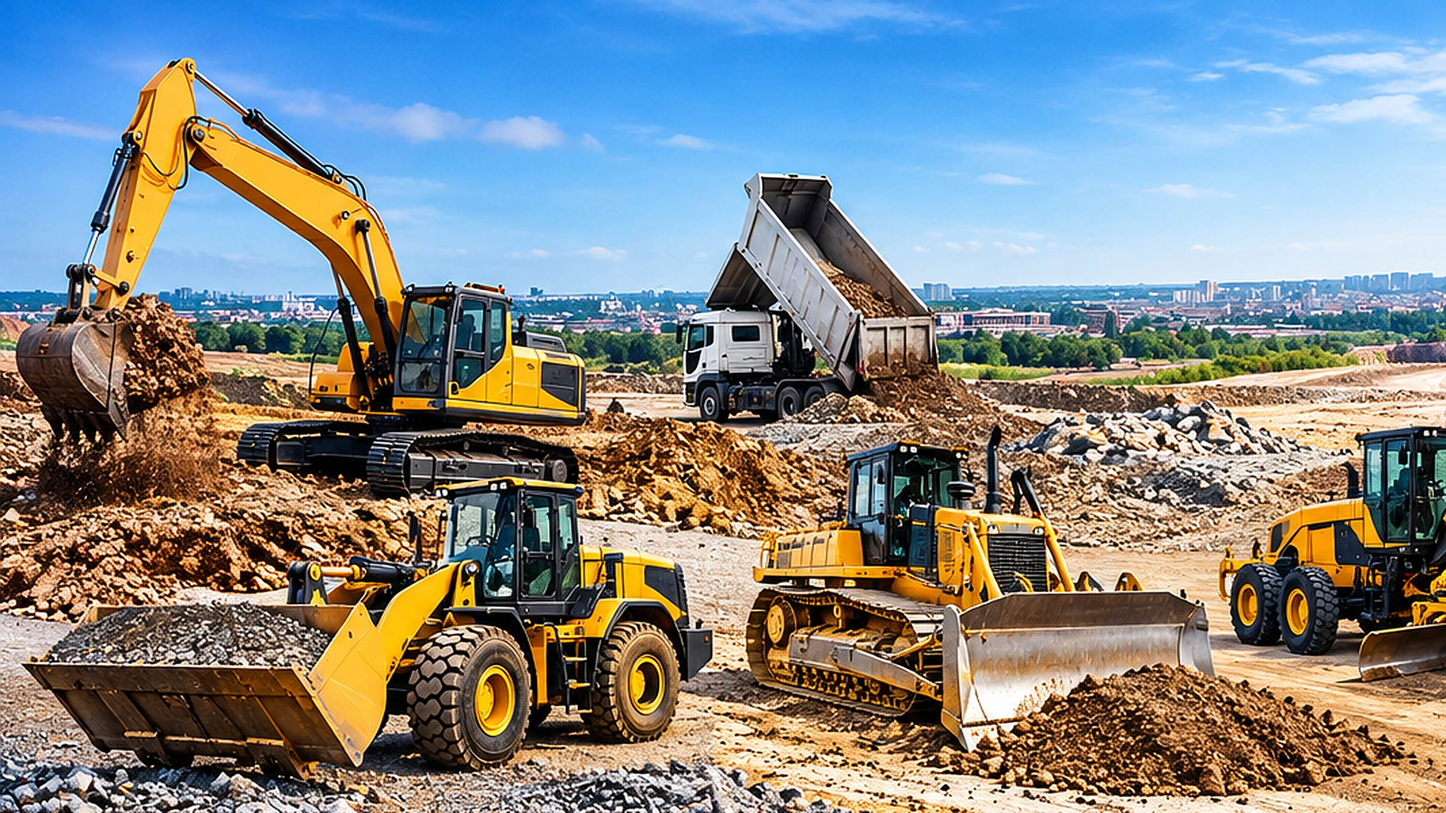
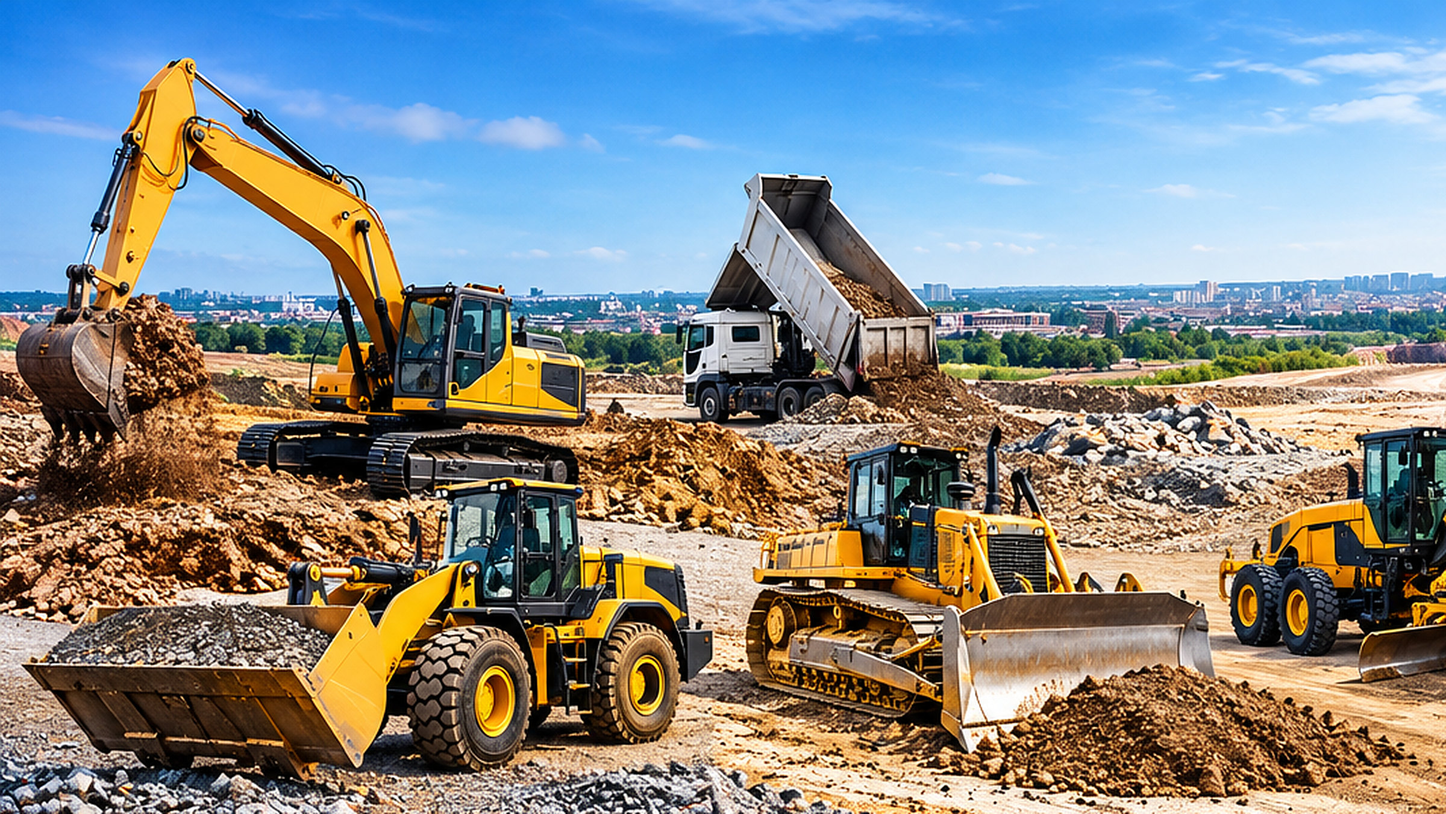
Sharp images on every screen: best-quality crops, ready-made 800/1200/1600 copies served by screen size, photo-on-top hero layout on phones, gentler zoom
Claude-Session: https://claude.ai/code/session_011iE6UMYLqo2DKbhRxwyS7K

Changed region(s): [[0.4688, 0.5289, 0.5, 0.56], [0.0938, 0.7156, 0.125, 0.7467]]

diff --git a/src/components/site/HeroSlider.tsx b/src/components/site/HeroSlider.tsx
@@ -1,5 +1,6 @@
 "use client";
 import Link from "next/link";
+import { srcSetFor } from "@/lib/responsive-image";
 import { useCallback, useEffect, useRef, useState } from "react";
 
 export type HeroSlide = { title: string; text: string; image: string; ctaLabel: string; ctaHref: string };
@@ -51,23 +52,33 @@ export function HeroSlider({ slides, eyebrow, secondary }: { slides: HeroSlide[]
       }}
     >
       {slides.map((s, k) => (
-        <div key={k} className={`absolute inset-0 -z-20 transition-opacity duration-1000 ${k === i ? "opacity-100" : "opacity-0"}`} aria-hidden={k !== i}>
+        <div
+          key={k}
+          className={`absolute inset-x-0 top-0 -z-20 h-[64%] overflow-hidden transition-opacity duration-1000 sm:inset-0 sm:h-auto ${k === i ? "opacity-100" : "opacity-0"}`}
+          aria-hidden={k !== i}
+        >
           {/* eslint-disable-next-line @next/next/no-img-element */}
           <img
             src={s.image}
+            srcSet={srcSetFor(s.image)}
+            sizes="100vw"
             alt=""
-            className="h-full w-full object-cover"
+            decoding="async"
+            className="h-full w-full object-cover object-center"
             style={k === i ? { animation: `kenburns ${INTERVAL + 1500}ms ease-out both` } : undefined}
             fetchPriority={k === 0 ? "high" : "low"}
             loading={k === 0 ? "eager" : "lazy"}
           />
         </div>
       ))}
-      <div className="absolute inset-0 -z-10 bg-gradient-to-r from-[#06120a]/90 via-[#06120a]/55 to-transparent" aria-hidden />
-      <div className="absolute inset-0 -z-10 bg-gradient-to-t from-[#06120a]/85 via-transparent to-[#06120a]/40" aria-hidden />
+      {/* Phones: a light shade for the header, then the photo fades into the green behind the text. */}
+      <div className="absolute inset-x-0 top-0 -z-10 h-[64%] bg-gradient-to-b from-[#06120a]/60 via-[#06120a]/30 via-30% to-[#0b2416] sm:hidden" aria-hidden />
+      {/* Tablets and desktop: text side shaded, the equipment side left bright. */}
+      <div className="absolute inset-0 -z-10 hidden bg-gradient-to-r from-[#06120a]/85 via-[#06120a]/45 to-transparent sm:block" aria-hidden />
+      <div className="absolute inset-0 -z-10 hidden bg-gradient-to-t from-[#06120a]/75 via-transparent via-45% to-[#06120a]/35 sm:block" aria-hidden />
 
       <div className="wrap pb-16 pt-[calc(var(--header-h)+3rem)] sm:pb-24">
-        <div key={i} className="max-w-3xl" role="group" aria-roledescription="slide" aria-label={`${i + 1} of ${n}`}>
+        <div key={i} className="max-w-3xl max-sm:[text-shadow:0_2px_14px_rgb(6_18_10/0.65)]" role="group" aria-roledescription="slide" aria-label={`${i + 1} of ${n}`}>
           <p className="rise flex items-center gap-3 text-sm font-semibold text-mint">
             <span className="h-px w-10 bg-mint" aria-hidden />
             {eyebrow}

diff --git a/src/app/(site)/page.tsx b/src/app/(site)/page.tsx
@@ -4,6 +4,7 @@ import { Leaf } from "@/components/brand/Leaf";
 import { db, schema } from "@/db";
 import { BrandsMarquee } from "@/components/site/BrandsMarquee";
 import { brandLogo, logoAspect, logoScale } from "@/lib/brand-logos";
+import { srcSetFor } from "@/lib/responsive-image";
 import { Framed } from "@/components/site/FamilyPicture";
 import { HeroSlider } from "@/components/site/HeroSlider";
 import { TestimonialsMarquee } from "@/components/site/Testimonials";
@@ -87,15 +88,18 @@ export default async function Home() {
           <ul className="mt-10 grid gap-5 lg:grid-cols-3">
             {categories.map((cat, k) => (
               <li key={cat.id} className="reveal" style={{ ["--i" as string]: k }}>
-                <Link href={`/products/${cat.slug}`} className="group relative block h-[26rem] overflow-hidden rounded-[22px] bg-deep text-white">
+                <Link href={`/products/${cat.slug}`} className="group relative block h-[22rem] overflow-hidden rounded-[22px] bg-deep text-white sm:h-[26rem]">
                   {/* eslint-disable-next-line @next/next/no-img-element */}
                   <img
                     src={cat.imageId ? mediaUrl(cat.imageId)! : imageUrl(s, `category-${cat.slug}`)}
+                    srcSet={srcSetFor(cat.imageId ? mediaUrl(cat.imageId) : imageUrl(s, `category-${cat.slug}`))}
+                    sizes="(min-width: 1024px) 34vw, 100vw"
                     alt=""
                     loading="lazy"
-                    className="absolute inset-0 h-full w-full object-cover transition-transform duration-700 group-hover:scale-105"
+                    decoding="async"
+                    className="absolute inset-0 h-full w-full object-cover transition-transform duration-700 group-hover:scale-[1.03]"
                   />
-                  <span className="absolute inset-0 bg-gradient-to-t from-[#06120a] via-[#06120a]/45 to-transparent" aria-hidden />
+                  <span className="absolute inset-0 bg-gradient-to-t from-[#06120a]/95 via-[#06120a]/35 via-45% to-transparent" aria-hidden />
                   <span className="absolute inset-x-0 bottom-0 p-6">
                     {cat.brand ? <span className="text-sm font-semibold text-mint">{cat.brand.name}</span> : null}
                     <span className="heading mt-1 block text-2xl">{cat.name}</span>

diff --git a/src/components/site/PageHead.tsx b/src/components/site/PageHead.tsx
@@ -1,4 +1,5 @@
 import Link from "next/link";
+import { srcSetFor } from "@/lib/responsive-image";
 
 export type Crumb = { href?: string; label: string };
 
@@ -22,15 +23,18 @@ export function PageHead({
         // eslint-disable-next-line @next/next/no-img-element
         <img
           src={image}
+          srcSet={srcSetFor(image)}
+          sizes="100vw"
           alt=""
-          className="absolute inset-0 -z-20 h-full w-full object-cover"
+          decoding="async"
+          className="absolute inset-0 -z-20 h-full w-full object-cover object-[65%_center]"
           style={{ animation: "kenburns 14s ease-out both" }}
           fetchPriority="high"
         />
       ) : (
         <div className="mesh absolute inset-0 -z-20" aria-hidden />
       )}
-      <div className="absolute inset-0 -z-10 bg-gradient-to-r from-[#06120a]/90 via-[#06120a]/65 to-[#06120a]/25" aria-hidden />
+      <div className="absolute inset-0 -z-10 bg-gradient-to-r from-[#06120a]/90 via-[#06120a]/60 to-[#06120a]/15 max-sm:bg-[#06120a]/65 max-sm:bg-none" aria-hidden />
       <div className="absolute inset-x-0 bottom-0 -z-10 h-24 bg-gradient-to-t from-[#06120a]/60 to-transparent" aria-hidden />
       <div className="wrap pb-12 pt-[calc(var(--header-h)+2.5rem)] sm:pb-16 sm:pt-[calc(var(--header-h)+4rem)]">
         {crumbs.length ? (

diff --git a/src/lib/responsive-image.ts b/src/lib/responsive-image.ts
@@ -1,0 +1,19 @@
+// Responsive picture sources, so a phone downloads a sharp picture its own size instead of
+// shrinking (or worse, stretching) one big file. Server- and client-safe.
+
+/** Widths of the ready-made copies kept next to every site picture in /public/images (name-800.jpg …). */
+const STATIC_WIDTHS = [800, 1200, 1600] as const;
+/** Widths the /media route can resize uploads to (see THUMB_WIDTHS in lib/media). */
+const MEDIA_WIDTHS = [960, 1600] as const;
+
+export function srcSetFor(url: string | null | undefined): string | undefined {
+  if (!url) return undefined;
+  if (/^\/images\/[\w-]+\.jpg$/.test(url)) {
+    const base = url.slice(0, -4);
+    return [...STATIC_WIDTHS.map((w) => `${base}-${w}.jpg ${w}w`), `${url} 2400w`].join(", ");
+  }
+  if (/^\/media\/[0-9a-f-]{36}$/i.test(url)) {
+    return [...MEDIA_WIDTHS.map((w) => `${url}?w=${w} ${w}w`), `${url} 2400w`].join(", ");
+  }
+  return undefined;
+}

diff --git a/src/app/globals.css b/src/app/globals.css
@@ -414,7 +414,7 @@
 
 @keyframes kenburns {
   from {
-    transform: scale(1.12);
+    transform: scale(1.05);
   }
   to {
     transform: scale(1);
